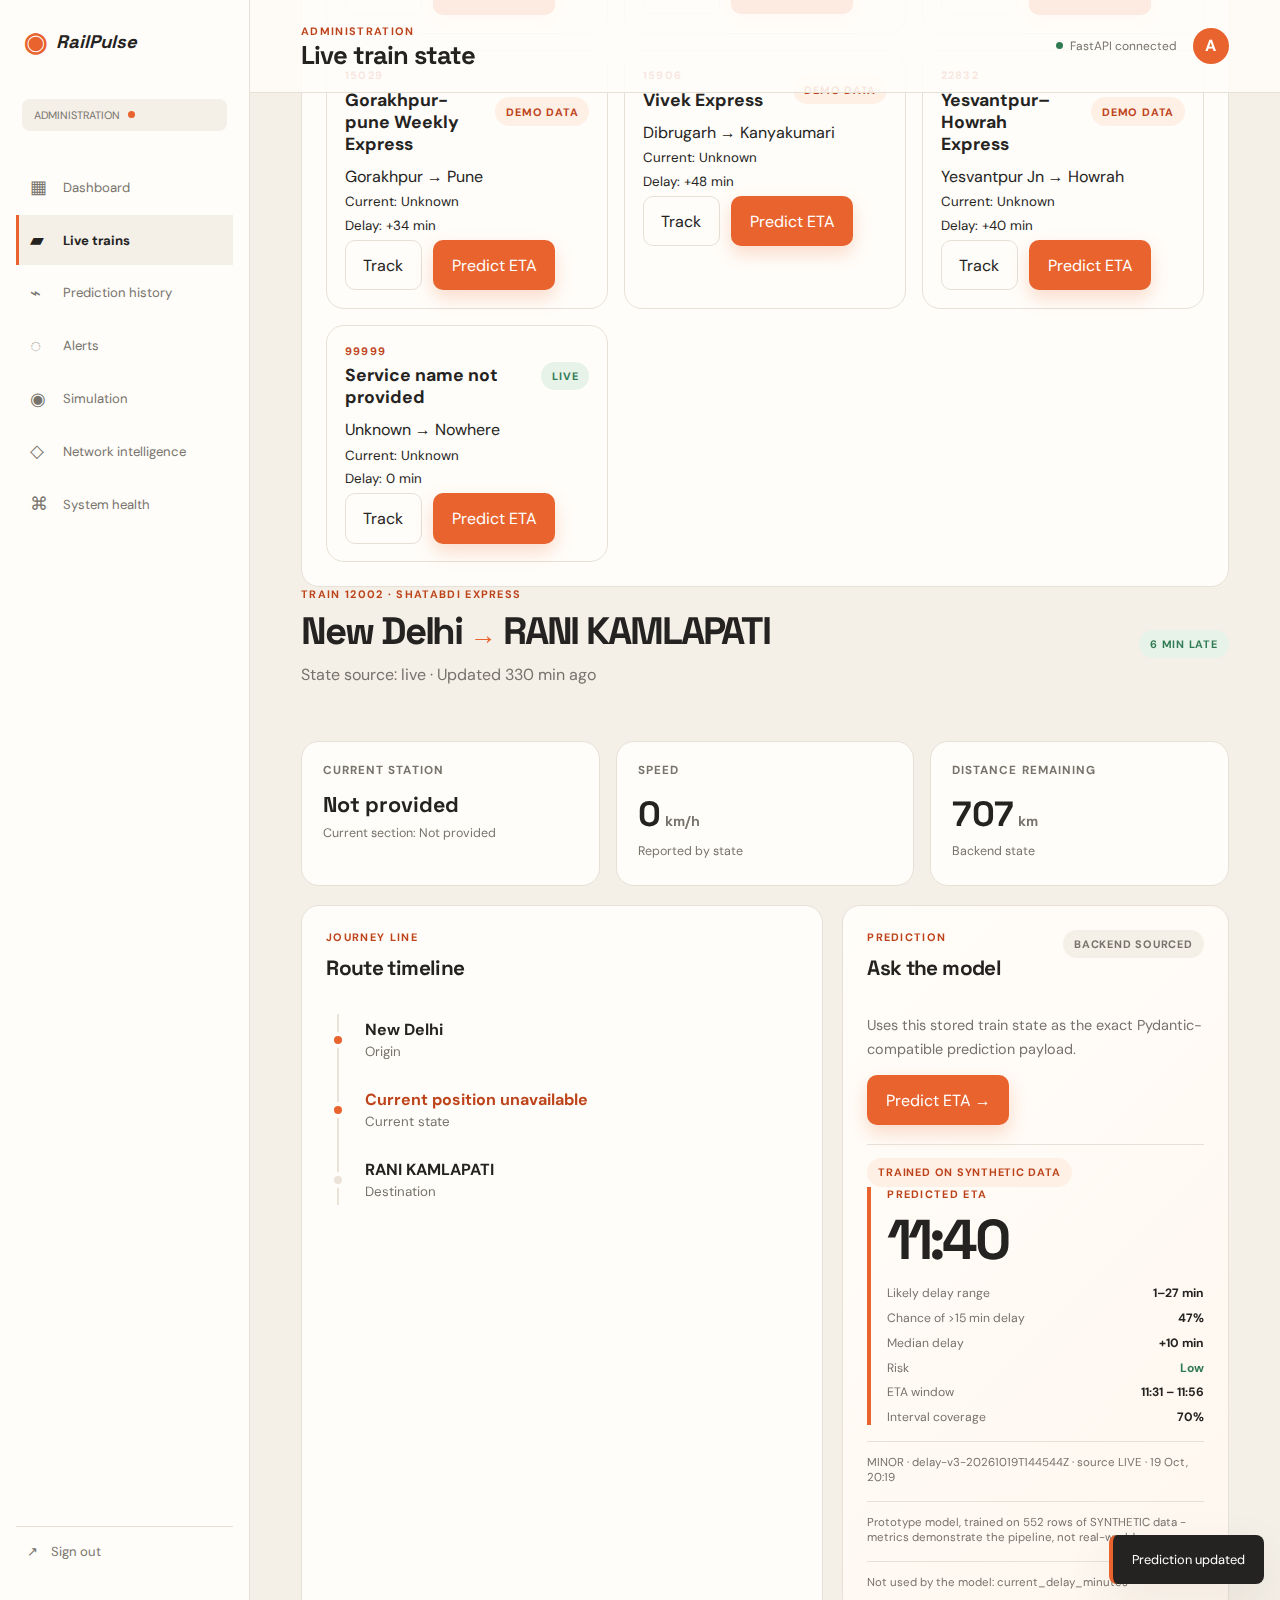
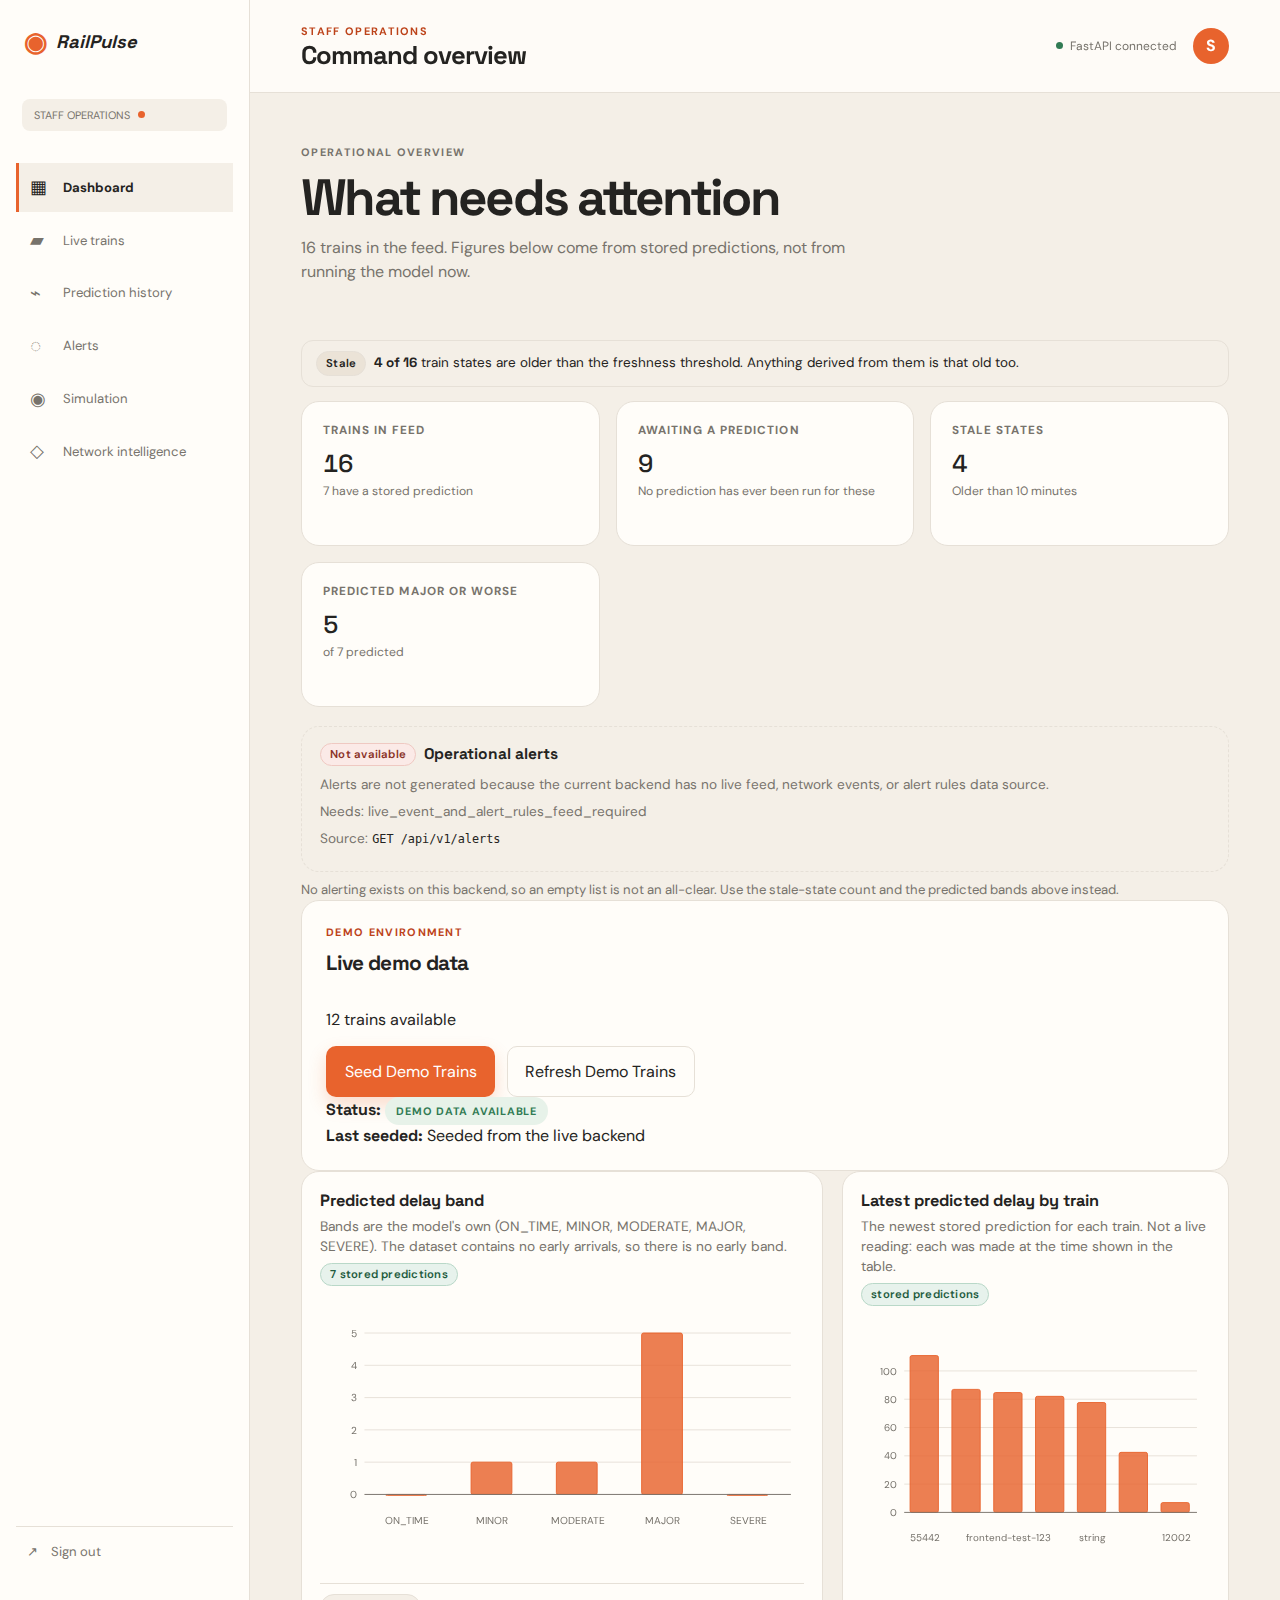
Correct three commit hashes in the Phase C/E record

diff --git a/docs/UNIFY_PROGRESS.md b/docs/UNIFY_PROGRESS.md
@@ -1107,12 +1107,12 @@ resolution would have been wiped every 15 s. It is a set of ids now. It is
 still session-local, because `models/Alert.js` has no status field to write to —
 unchanged behaviour, now stated in the code.
 
-**C.4 Simulation** (`cf5f8f5`). Presets from `config/scenarios.js` (D-A1), the
+**C.4 Simulation** (`ba8adb1`). Presets from `config/scenarios.js` (D-A1), the
 train list from `useTrains({ poll: false })` — deliberately not polling, since a
 list changing under an operator mid-setup would move the selection they just
 made. The default selection is derived rather than written by an effect.
 
-**C.5 The sweep** (`a6f3f2c`). Across all 12 files in `src/pages`:
+**C.5 The sweep** (`9bf46c6`). Across all 12 files in `src/pages`:
 
 | Looked for | Found | Action |
 |---|---|---|
@@ -1132,7 +1132,7 @@ No styling or layout changed in any of the four commits.
 | InsightCard actions | **They do not exist.** `InsightCard({ title, text })` renders two `<p>` elements and no button. A scripted scan of every `<button>` in `src/pages` and `src/components` found **zero** without an `onClick` or `type="submit"`. |
 | StaffOTP reload crash | **Already handled.** With no `location.state.email` it renders an explanation and a link to `/register/staff`. You asked for a redirect; the explanatory screen was kept instead, because a silent redirect tells the user nothing about why they were moved. Say the word and it becomes a `<Navigate>`. |
 | Register.jsx `alert()` + shared client | **Already done.** No `alert(` anywhere in `src/`; it uses `authApi` (the shared client with the session interceptor) and an inline `{error}` block. |
-| **Merge `config.js` + `config/`** (C-B1) | **Done** (`4e1d2a7`). `src/config.js` → `src/config/index.js`, re-exporting `polling.js` and `scenarios.js`. `"../config"` still resolves for all five importers, and the default origins are verified present in the build output. |
+| **Merge `config.js` + `config/`** (C-B1) | **Done** (`675a5da`). `src/config.js` → `src/config/index.js`, re-exporting `polling.js` and `scenarios.js`. `"../config"` still resolves for all five importers, and the default origins are verified present in the build output. |
 | Mobile sidebar and nav targets (read-only) | **Verified by reading.** `Sidebar` is `fixed … -translate-x-full` below `md` and `md:static md:translate-x-0` above, with a close button, a backdrop and Escape handling in `MainLayout`. All **8** sidebar paths have a matching `<Route>`; `/` → `Entry`; catch-all present. |
 
 ### 4. Phase F — already implemented, verified by reading
